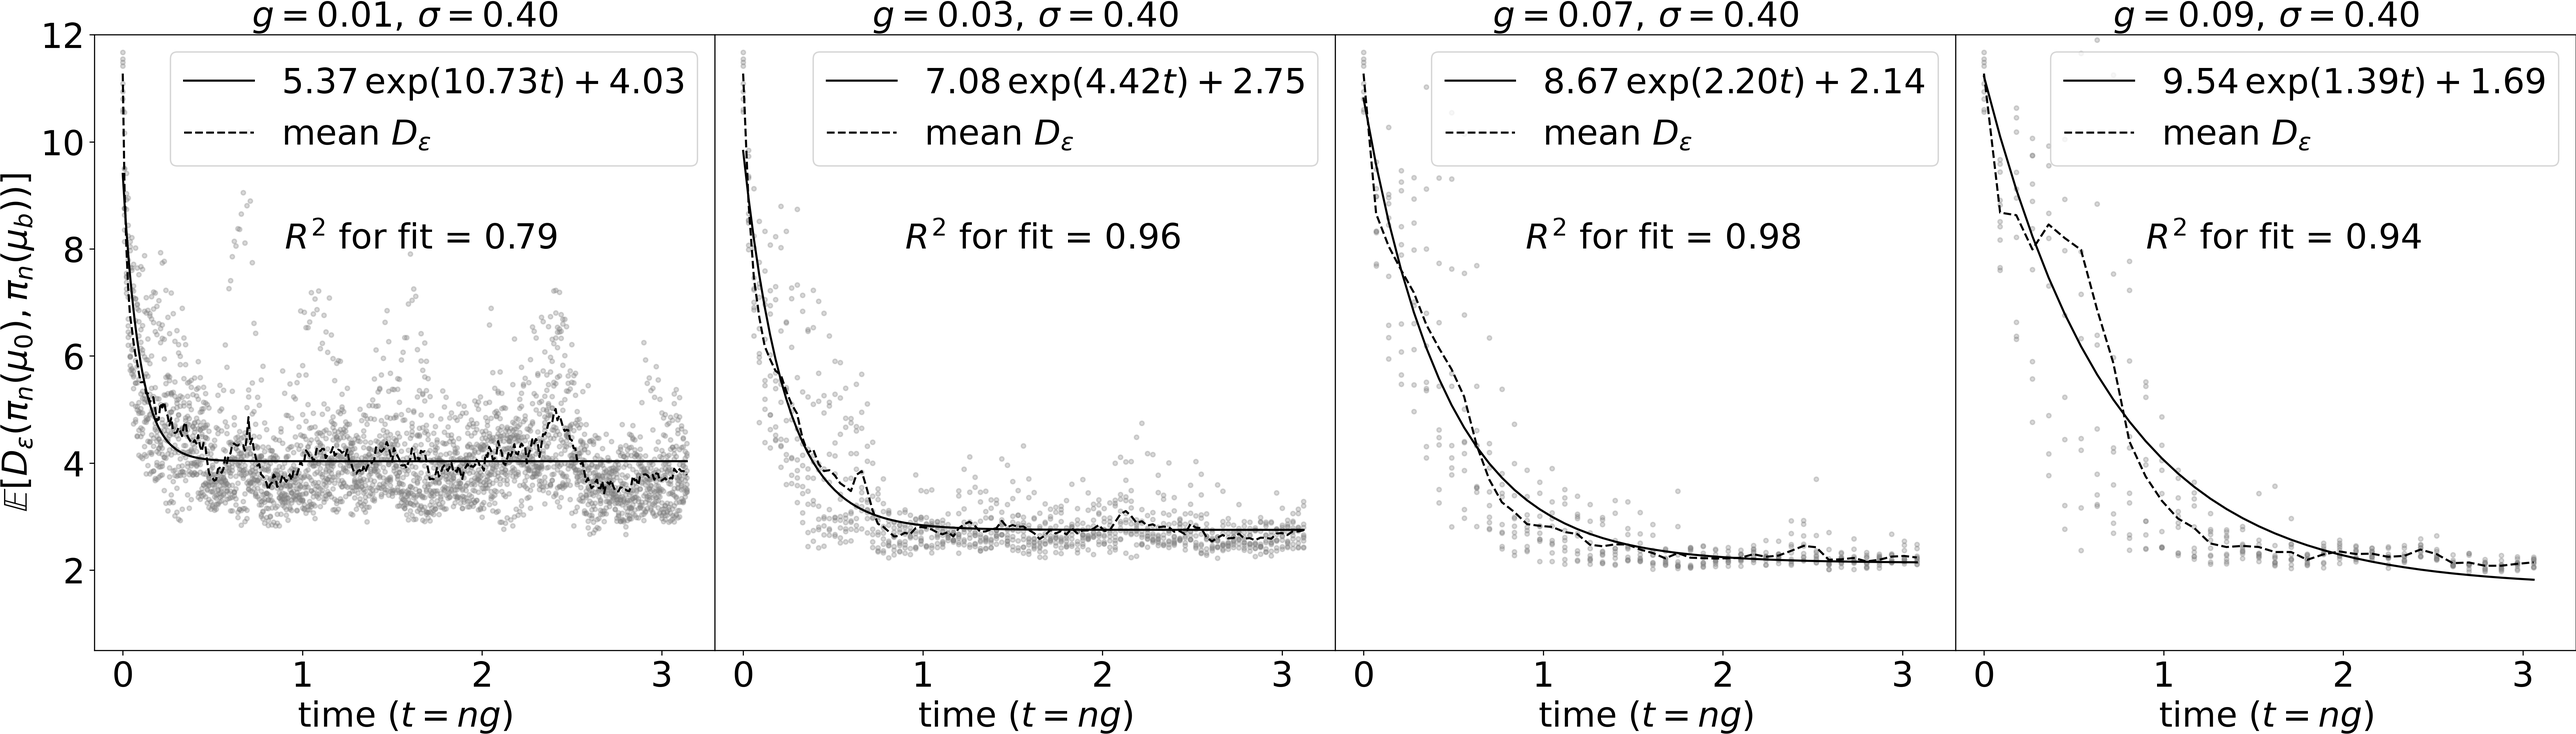
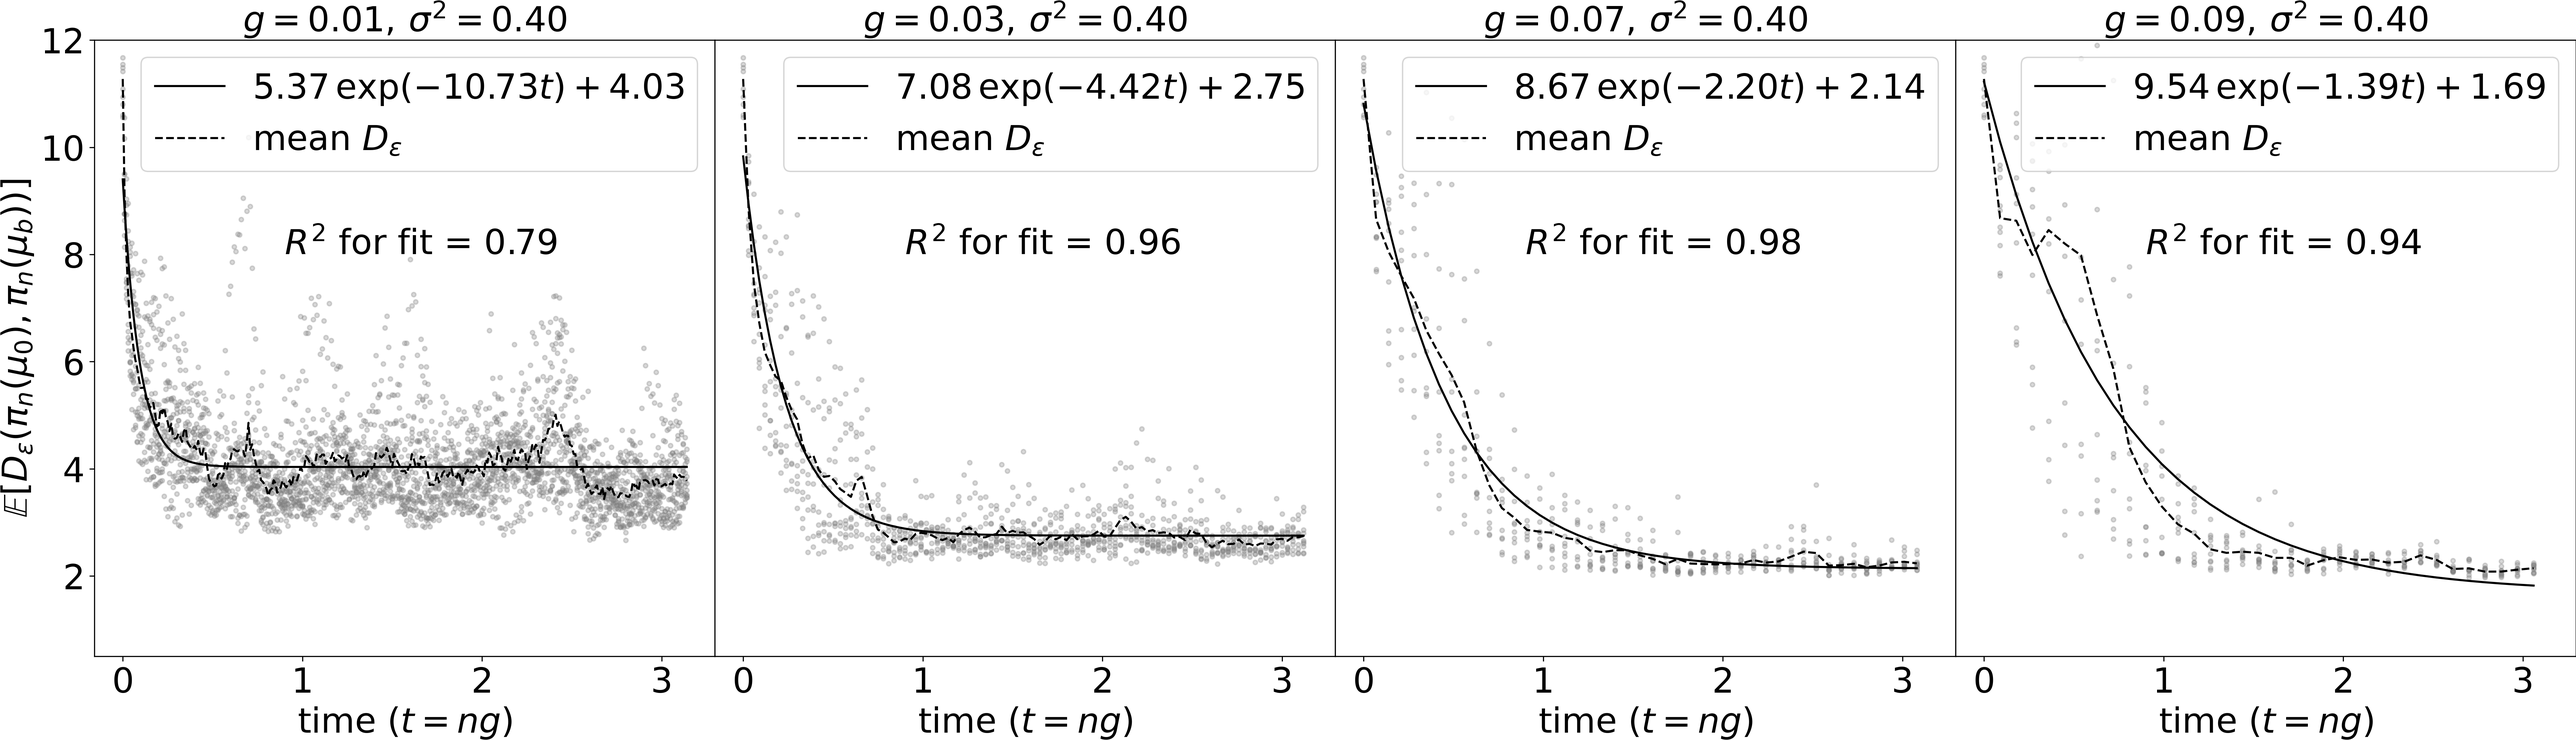
sigma^2 fix title

diff --git a/modules/rate.py b/modules/rate.py
@@ -107,7 +107,7 @@ class BatchRate:
         with open('{}/p_rate_{}.txt'.format(folder, tag), 'w') as file:
             for i, obs_gap in enumerate(self.file_dict):
                 self.rcs[i].fit_exp(tail=0.9)
-                file.write('{0:.2e} $\pm$ {3:.2e} & {1:.2e} $\pm$ {4:.2e} & {2:.2e} $\pm$ {5:.2e}\\\\\n\\hline\n'.format(*self.rcs[i].popt, *(1.96 * np.diag(self.rcs[i].pcov))))
+                file.write('{0:.6f} $\pm$ {3:.6f} & {1:.6f} $\pm$ {4:.6f} & {2:.6f} $\pm$ {5:.6f}\\\\\n\\hline\n'.format(*self.rcs[i].popt, *(1.96 * np.diag(self.rcs[i].pcov))))
                 if i == 0:
                     axs.append(fig.add_subplot(1, len(self.file_dict), i+1))
                     axs[i].set_ylabel(r'$\mathbb{E}[D_\varepsilon\left(\pi_n(\mu_0), \pi_n(\mu_b)\right)]$', fontsize=fsize)
@@ -118,12 +118,12 @@ class BatchRate:
                 axs[i].tick_params(axis='both', which='minor', labelsize=fsize)
                 dist, phy_time = self.rcs[i].collect_data()
                 axs[i].scatter(phy_time, dist, s=10, c='grey', alpha=0.3)
-                label = r'${:.2f}\,\exp({:.2f}t) + {:.2f}$'.format(*self.rcs[i].popt)
+                label = r'${:.2f}\,\exp(-{:.2f}t) + {:.2f}$'.format(*self.rcs[i].popt)
                 axs[i].plot(self.rcs[i].phy_time, self.rcs[i].f(self.rcs[i].phy_time), c='black', label=label)
                 axs[i].plot(self.rcs[i].phy_time, self.rcs[i].dist, c='black', label=r'mean $D_\varepsilon$', linestyle='dashed')
                 axs[i].text(0.9, 8.0, r'$R^2$ for fit = {:.2f}'.format(self.rcs[i].r_squared), fontsize=fsize)
                 axs[i].set_xlabel(r'time ($t=ng$)', fontsize=fsize)
-                axs[i].set_title(r'$g = {:.2f},\,\sigma= {:.2f}$'.format(obs_gap, obs_cov), fontsize=fsize)
+                axs[i].set_title(r'$g = {:.2f},\,\sigma^2= {:.2f}$'.format(obs_gap, obs_cov), fontsize=fsize)
                 axs[i].legend(fontsize=fsize-0, loc='upper right')
                 if ylim is not None:
                     axs[i].set_ylim(*ylim)
@@ -145,7 +145,7 @@ class BatchRate2:
         with open('{}/p_rate_{}.txt'.format(folder, tag), 'w') as file:
             for i, obs_cov in enumerate(self.file_dict):
                 self.rcs[i].fit_exp(tail=0.9)
-                file.write('{0:.2e} $\pm$ {3:.2e} & {1:.2e} $\pm$ {4:.2e} & {2:.2e} $\pm$ {5:.2e}\\\\\n\\hline\n'.format(*self.rcs[i].popt, *(1.96 * np.diag(self.rcs[i].pcov))))
+                file.write('{0:.6f} $\pm$ {3:.6f} & {1:.6f} $\pm$ {4:.6f} & {2:.6f} $\pm$ {5:.6f}\\\\\n\\hline\n'.format(*self.rcs[i].popt, *(1.96 * np.diag(self.rcs[i].pcov))))
                 if i == 0:
                     axs.append(fig.add_subplot(1, len(self.file_dict), i+1))
                     axs[i].set_ylabel(r'$\mathbb{E}[D_\varepsilon\left(\pi_n(\mu_0), \pi_n(\mu_b)\right)]$', fontsize=fsize)
@@ -156,12 +156,12 @@ class BatchRate2:
                 axs[i].tick_params(axis='both', which='minor', labelsize=fsize)
                 dist, phy_time = self.rcs[i].collect_data()
                 axs[i].scatter(phy_time, dist, s=10, c='grey', alpha=0.3)
-                label = r'${:.2f}\,\exp({:.2f}t) + {:.2f}$'.format(*self.rcs[i].popt)
+                label = r'${:.2f}\,\exp(-{:.2f}t) + {:.2f}$'.format(*self.rcs[i].popt)
                 axs[i].plot(self.rcs[i].phy_time, self.rcs[i].f(self.rcs[i].phy_time), c='black', label=label)
                 axs[i].plot(self.rcs[i].phy_time, self.rcs[i].dist, c='black', label=r'mean $D_\varepsilon$', linestyle='dashed')
                 axs[i].text(0.9, 8.0, r'$R^2$ for fit = {:.2f}'.format(self.rcs[i].r_squared), fontsize=fsize)
                 axs[i].set_xlabel(r'time ($t=ng$)', fontsize=fsize)
-                axs[i].set_title(r'$g = {:.2f},\,\sigma= {:.2f}$'.format(self.rcs[i].obs_gap, obs_cov), fontsize=fsize)
+                axs[i].set_title(r'$g = {:.2f},\,\sigma^2= {:.2f}$'.format(self.rcs[i].obs_gap, obs_cov), fontsize=fsize)
                 axs[i].legend(fontsize=fsize-0, loc='upper right')
                 if ylim is not None:
                     axs[i].set_ylim(*ylim)

diff --git a/modules/l2.py b/modules/l2.py
@@ -19,6 +19,7 @@ class L2Error:
         self.obs_gap = obs_gap
         h5 = tables.open_file(files[0], mode='r')
         self.dim = np.array(h5.root.particles.time_0.read().tolist()).shape[-1]
+        print('System dimension found to be {}'.format(self.dim))
         h5.close()
 
 
@@ -132,7 +133,7 @@ class BatchL2:
                 axs[i].plot(l2.phy_time, l2.l2_error, c='black', label=labels[j], linestyle=linestyles[j])
                 
             
-            axs[i].plot(l2.phy_time, np.ones_like(l2.phy_time) * np.sqrt(obs_cov), label='$\sigma$', linestyle='dotted')
+            axs[i].plot(l2.phy_time, np.ones_like(l2.phy_time) * np.sqrt(obs_cov), label='$\sigma$', linestyle='dotted', c='grey')
             axs[i].legend(fontsize=fsize, loc='upper right')
             
         fig.subplots_adjust(wspace=0, hspace=0)
@@ -169,7 +170,7 @@ class BatchL22:
                 axs[i].plot(l2.phy_time, l2.l2_error, c='black', label=labels[j], linestyle=linestyles[j])
                 
             
-            axs[i].plot(l2.phy_time, np.ones_like(l2.phy_time) * np.sqrt(obs_cov), label='$\sigma$', linestyle='dotted')
+            axs[i].plot(l2.phy_time, np.ones_like(l2.phy_time) * np.sqrt(obs_cov), label='$\sigma$', linestyle='dotted', c='grey')
             axs[i].legend(fontsize=fsize, loc='upper right')
             
         fig.subplots_adjust(wspace=0, hspace=0)

diff --git a/effect of obs cov/plot.py b/effect of obs cov/plot.py
@@ -48,9 +48,9 @@ for folder in glob.glob('{}/*'.format(error_folder)):
     else:
         error_dict_all_2[obs_cov].append(file)
 
-# rate.BatchRate2(dist_dict_all, obs_gap).plot(plot_folder, tag='obs_cov_all', ylim=(0.5, 12.0), fsize=25)
+rate.BatchRate2(dist_dict_all, obs_gap).plot(plot_folder, tag='obs_cov_all', ylim=(0.5, 12.0), fsize=25)
 l2.BatchL22([error_dict_all_1, error_dict_all_2], obs_gap)\
    .plot(plot_folder, tag='obs_cov_all', ylim=(0.0, 4.0), fsize=25, labels=['unbiased', 'biased'], linestyles=['solid', 'dashed'])
 # trace.BatchTr2([error_dict_all_1, error_dict_all_2], obs_gap)\
-#    .plot(plot_folder, tag='obs_cov_all', ylim=(0.0, 20.0), fsize=25, labels=['unbiased', 'biased'], linestyles=['solid', 'dashed'])
+#    .plot(plot_folder, tag='obs_cov_all', ylim=(0.0, 20.0), fsize=25, labels=[r'unbiased', 'biased'], linestyles=['solid', 'dashed'])
 # dvl2.BatchDvL22(dist_dict_all, error_dict_all_2, obs_gap).plot(plot_folder, tag='obs_cov_all', ylim=(0.2, 4.0), xlim=(1.5, 11.5), fsize=25)

diff --git a/effect of obs gap/plot.py b/effect of obs gap/plot.py
@@ -53,7 +53,7 @@ del dist_dict_all[0.05]
 del error_dict_all_1[0.05]
 del error_dict_all_2[0.05]
 
-# rate.BatchRate(dist_dict_all).plot(plot_folder, tag='obs_gap_all', obs_cov=obs_cov, ylim=(0.5, 12.0), fsize=25)
+#rate.BatchRate(dist_dict_all).plot(plot_folder, tag='obs_gap_all', obs_cov=obs_cov, ylim=(0.5, 12.0), fsize=25)
 l2.BatchL2([error_dict_all_1, error_dict_all_2])\
     .plot(plot_folder, tag='obs_gap_all', obs_cov=obs_cov, ylim=(0.0, 4.0), fsize=25, labels=['unbiased', 'biased'], linestyles=['solid', 'dashed'])
 # trace.BatchTr([error_dict_all_1, error_dict_all_2])\
